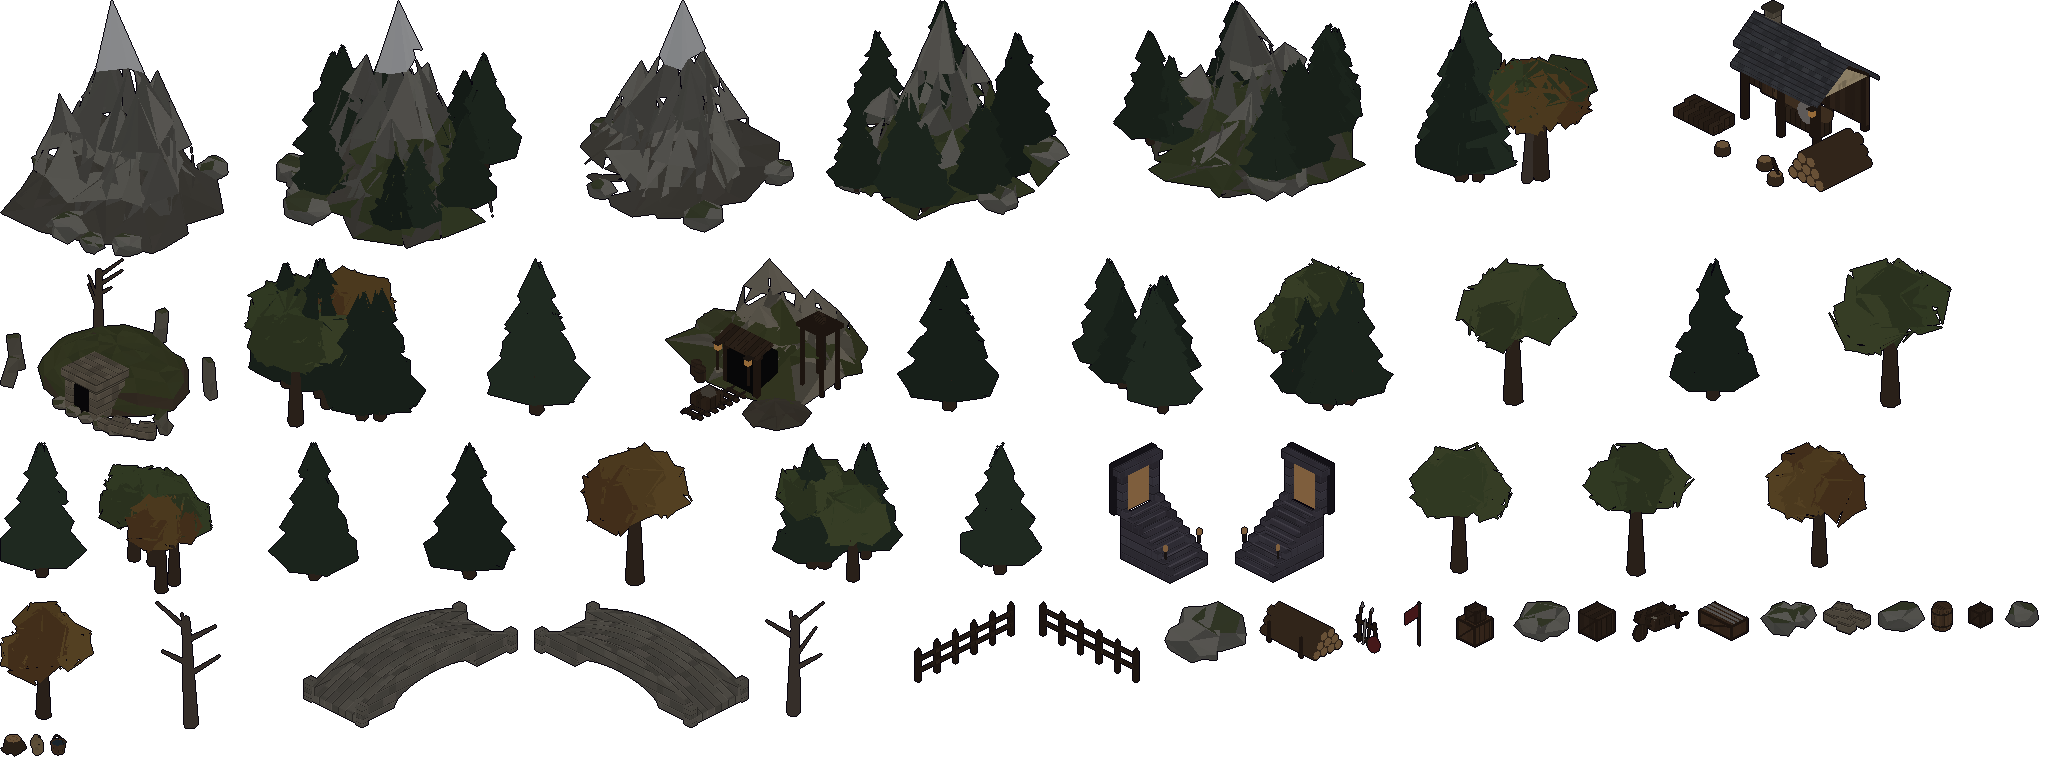
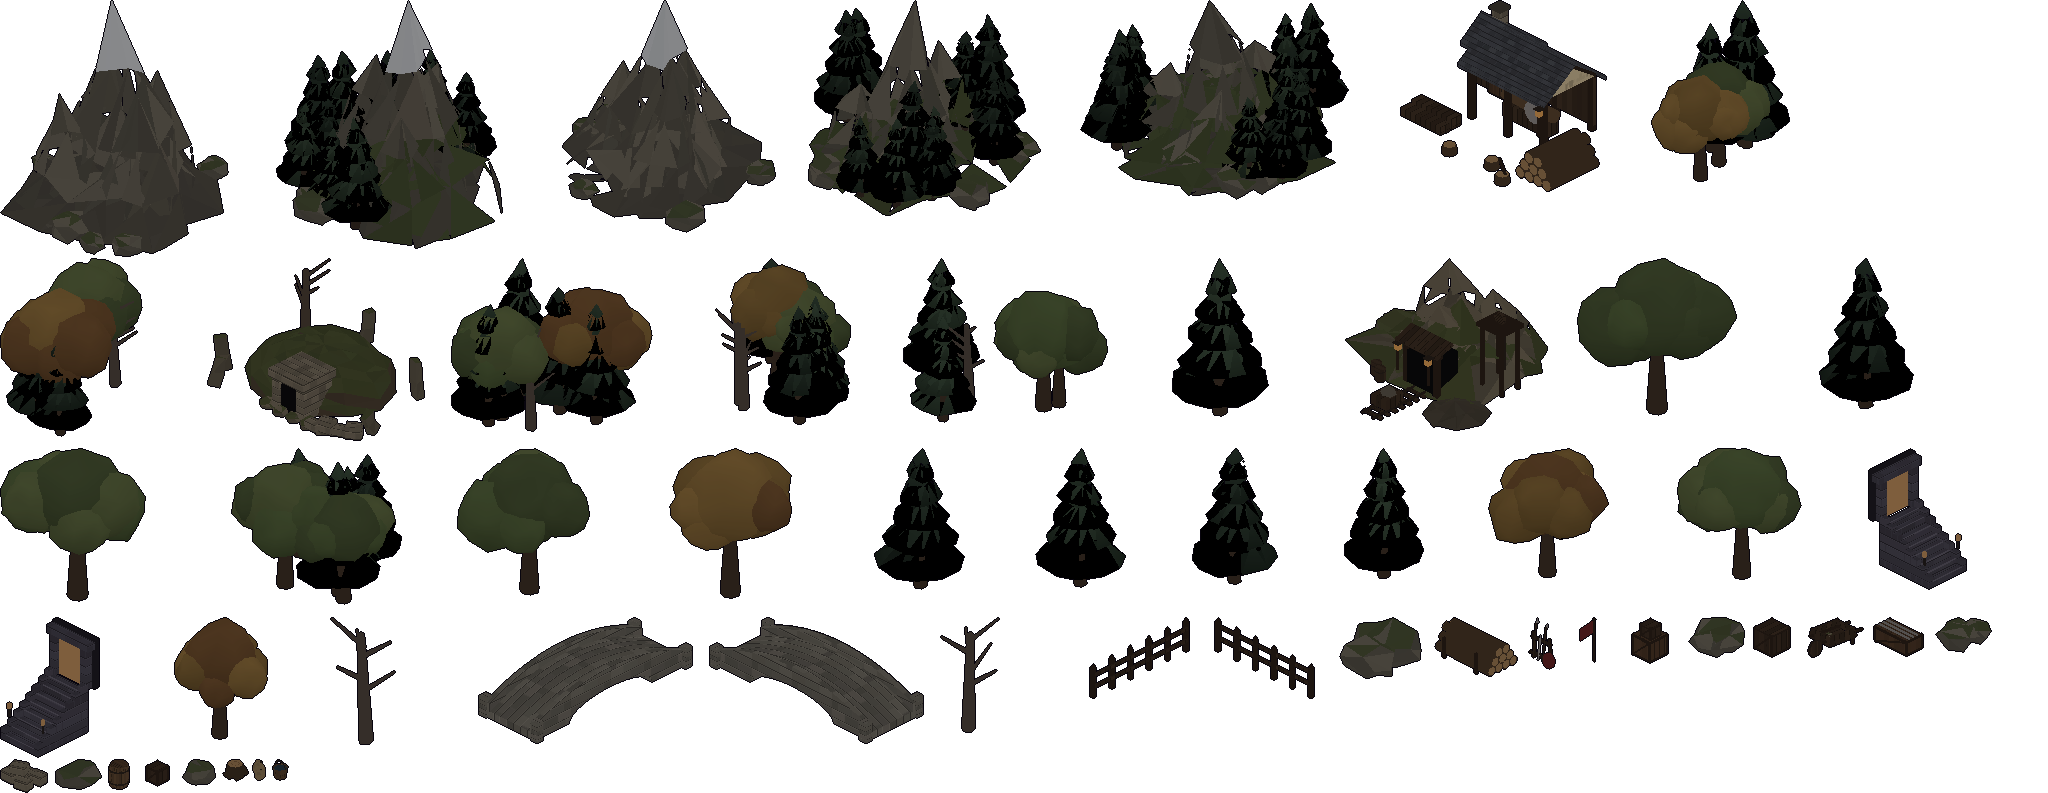
Trees and rocks match the buildings; landmark sightlines account for tree height
- buildkit foliage: crowns are vertex-welded before jitter (the old per-face
  jitter cracked them into shards), smooth-shaded and vertex-coloured from a
  self-shadowed underside to a lit top. Broadleaf trees get a broad cloud of
  rounded clumps and visible limbs instead of a few faceted gems; pines are
  five overlapping drooping boughs.
- Rocks: warm dark field-stone with more moss (pale neutral grey read lilac
  under the violet dusk).
- Overland sightline wedge scales with what's placed: groves 80, trees 62,
  rocks 30 (a grove's crowns reach ~30 tiles up-screen and covered the
  Barrows door again after the footprint change).
- Env and town atlases + footprints rebaked.

Claude-Session: https://claude.ai/code/session_015iJE9saRx1hCYJHRMUYeGn

diff --git a/src/sim/envfoot.js b/src/sim/envfoot.js
@@ -1,4 +1,4 @@
 // envfoot.js — GENERATED by tools/actor-lab/bake-env.cjs. Do not edit.
 // Ground footprint of each baked environment sprite, in tiles relative to its
 // origin: [x0, y0, x1, y1]. Used for collision and placement.
-export const ENV_FOOT = {"pine_1":[-5.46,-5.7,5.31,5.16],"pine_2":[-4.5,-4.8,4.99,4.87],"pine_3":[-5.04,-4.72,4.94,5.15],"pine_4":[-4.7,-4.76,5.18,5.04],"pine_5":[-4.33,-4.33,4.72,4.69],"pine_6":[-5.3,-5.62,5.8,5.55],"oak_1":[-6.11,-7.36,6.14,6.76],"oak_2":[-5.3,-5.13,4.9,6.33],"oak_3":[-4.78,-5.35,3.81,5.83],"oak_4":[-6.79,-6.27,5.48,6.7],"autumn_1":[-5.55,-5.54,5.19,6.4],"autumn_2":[-5.46,-4.76,5.52,5.58],"autumn_3":[-3.81,-5.57,4.15,6.11],"dead_1":[-2.24,-2.81,2.66,2.62],"dead_2":[-2.56,-1.87,2.98,3.05],"grove_1":[-9.33,-9.47,3.42,3.61],"grove_2":[-10.08,-9.35,8.36,9.26],"grove_3":[-8.88,-10.4,9.35,7.65],"grove_4":[-10.19,-7.19,8.42,8.9],"grove_5":[-7.76,-4.44,6.78,8.94],"grove_6":[-9.02,-9.65,7.4,2.07],"bridge_0":[-3.6,-9.7,3.6,9.7],"bridge_90":[-9.7,-3.6,9.7,3.6],"rock_A":[-2.18,-2.03,2.19,2.41],"rock_B":[-2.03,-2.12,2.06,1.97],"rock_C":[-3.06,-3.35,3.32,3.55],"rock_D":[-2.7,-3.56,2.22,2.22],"rock_E":[-3.72,-3.84,4.19,6.22],"mountain_A_grass_trees":[-11.35,-11.48,11.34,11.97],"mountain_B_grass_trees":[-11.71,-13.02,12.8,11.38],"mountain_C_grass_trees":[-14.56,-13.66,14.26,14.25],"mountain_A":[-11.3,-11.74,11.05,10.38],"mountain_B":[-12.23,-11.71,11.72,13.45],"ruin":[-9.37,-9.66,9.14,6.89],"mine_0":[-11.55,-10.95,8.49,11.1],"lumbermill_90":[-10.3,-7.1,9.4,8.9],"barrel":[-0.89,-0.94,0.89,0.94],"crate_A_big":[-1.12,-1.12,1.12,1.19],"crate_A_small":[-0.72,-0.72,0.72,0.79],"crate_B_big":[-1.12,-1.12,1.12,1.19],"crate_long_A":[-2.02,-1.02,2.02,1.09],"sack":[-0.62,-0.49,1.25,1.36],"wheelbarrow":[-1.32,-2.69,1.32,3.23],"weaponrack":[-1.2,-0.19,2.1,0.81],"bucket_water":[-0.65,-0.65,0.65,0.65],"resource_lumber":[-3.33,-1.78,3.33,2.15],"resource_stone":[-1.7,-1.97,1.75,0.83],"flag_red":[-0.16,-0.12,0.16,1.84],"stump":[-1.06,-1.15,1.12,1.1],"fence_0":[-0.25,-6.05,0.3,6.05],"fence_90":[-6.05,-0.3,6.05,0.25],"stairsup_0":[-2.6,-4.15,2.6,3.1],"stairsup_90":[-4.15,-2.6,3.1,2.6],"vale_tavern_1":[-6.3,-8.45,6.72,7.25],"vale_inn_1":[-7.1,-4.4,10.48,5.1],"vale_shop_1":[-4.2,-7.15,5.07,4.2],"vale_temple_1":[-6.95,-4.5,7.84,6.7],"vale_well_1":[-2.1,-1.8,2.1,1.8],"vale_house_1":[-4.7,-4,4.7,4],"vale_house_2":[-4.7,-4,4.7,4],"vale_house_3":[-4.7,-4,4.7,4],"vale_housex_1":[-4,-4.7,4,4.7],"vale_housex_2":[-4,-4.7,4,4.7],"vale_farm_1":[-9.63,-5.7,9.77,7.63],"vale_farmx_1":[-5.7,-9.77,7.63,9.63],"vale_keep_1":[-6.37,-6.45,6.37,6.45],"vale_wall_1":[-11,-1.7,11,2.1],"vale_wally_1":[-1.7,-11,2.1,11],"fens_tavern_1":[-6.3,-8.45,6.72,7.25],"fens_inn_1":[-7.1,-4.4,10.48,5.1],"fens_shop_1":[-4.2,-7.15,5.07,4.2],"fens_temple_1":[-6.95,-4.5,7.84,6.7],"fens_well_1":[-2.1,-1.8,2.1,1.8],"fens_house_1":[-4.7,-4,4.7,4],"fens_house_2":[-4.7,-4,4.7,4],"fens_house_3":[-4.7,-4,4.7,4],"fens_housex_1":[-4,-4.7,4,4.7],"fens_housex_2":[-4,-4.7,4,4.7],"fens_farm_1":[-9.63,-5.7,9.77,7.63],"fens_farmx_1":[-5.7,-9.77,7.63,9.63],"fens_keep_1":[-6.37,-6.45,6.37,6.45],"fens_wall_1":[-11,-1.7,11,2.1],"fens_wally_1":[-1.7,-11,2.1,11],"reach_tavern_1":[-6.3,-8.45,6.72,7.25],"reach_inn_1":[-7.1,-4.4,10.48,5.1],"reach_shop_1":[-4.2,-7.15,5.07,4.2],"reach_temple_1":[-6.95,-4.5,7.84,6.7],"reach_well_1":[-2.1,-1.8,2.1,1.8],"reach_house_1":[-4.7,-4,4.7,4],"reach_house_2":[-4.7,-4,4.7,4],"reach_house_3":[-4.7,-4,4.7,4],"reach_housex_1":[-4,-4.7,4,4.7],"reach_housex_2":[-4,-4.7,4,4.7],"reach_farm_1":[-9.63,-5.7,9.77,7.63],"reach_farmx_1":[-5.7,-9.77,7.63,9.63],"reach_keep_1":[-6.37,-6.45,6.37,6.45],"reach_wall_1":[-11,-1.7,11,2.1],"reach_wally_1":[-1.7,-11,2.1,11],"heights_tavern_1":[-6.3,-8.45,6.72,7.25],"heights_inn_1":[-7.1,-4.4,10.48,5.1],"heights_shop_1":[-4.2,-7.15,5.07,4.2],"heights_temple_1":[-6.95,-4.5,7.84,6.7],"heights_well_1":[-2.1,-1.8,2.1,1.8],"heights_house_1":[-4.7,-4,4.7,4],"heights_house_2":[-4.7,-4,4.7,4],"heights_house_3":[-4.7,-4,4.7,4],"heights_housex_1":[-4,-4.7,4,4.7],"heights_housex_2":[-4,-4.7,4,4.7],"heights_farm_1":[-9.63,-5.7,9.77,7.63],"heights_farmx_1":[-5.7,-9.77,7.63,9.63],"heights_keep_1":[-6.37,-6.45,6.37,6.45],"heights_wall_1":[-11,-1.7,11,2.1],"heights_wally_1":[-1.7,-11,2.1,11]};
+export const ENV_FOOT = {"pine_1":[-4.13,-4.18,4.39,4.34],"pine_2":[-4.81,-4.8,5.12,5],"pine_3":[-4.98,-5.01,5,4.96],"pine_4":[-5.13,-5.38,5.48,5.19],"pine_5":[-4.8,-4.87,4.86,4.58],"pine_6":[-4.76,-4.68,4.81,4.84],"oak_1":[-6.76,-5.9,5.88,5.84],"oak_2":[-5.8,-4.63,4.64,4.88],"oak_3":[-5.69,-5.27,5.8,5.97],"oak_4":[-6.23,-6.82,5.95,6.39],"autumn_1":[-6.59,-6.17,5.5,4.97],"autumn_2":[-4.61,-5.31,5.15,5.55],"autumn_3":[-4.46,-4.55,4.68,4.38],"dead_1":[-2.24,-2.81,2.66,2.62],"dead_2":[-2.56,-1.87,2.98,3.05],"grove_1":[-7.68,-11.37,3.67,5.35],"grove_2":[-9.37,-7.23,8.7,9.95],"grove_3":[-8,-5.74,9.25,8.11],"grove_4":[-8.72,-9.33,7.98,8.18],"grove_5":[-7.14,-9.42,6.44,8.99],"grove_6":[-8.02,-9.64,7.46,6.95],"bridge_0":[-3.6,-9.7,3.6,9.7],"bridge_90":[-9.7,-3.6,9.7,3.6],"rock_A":[-2.18,-2.03,2.19,2.41],"rock_B":[-2.03,-2.12,2.06,1.97],"rock_C":[-3.06,-3.35,3.32,3.55],"rock_D":[-2.7,-3.56,2.22,2.22],"rock_E":[-3.72,-3.84,4.19,6.22],"mountain_A_grass_trees":[-12.58,-12.79,11.34,10.47],"mountain_B_grass_trees":[-12.7,-13.02,12.8,11.86],"mountain_C_grass_trees":[-14.56,-13.66,14.26,14.25],"mountain_A":[-11.3,-11.74,11.05,10.38],"mountain_B":[-12.23,-11.71,11.72,13.45],"ruin":[-9.37,-9.66,9.14,6.89],"mine_0":[-11.55,-10.95,8.49,11.1],"lumbermill_90":[-10.3,-7.1,9.4,8.9],"barrel":[-0.89,-0.94,0.89,0.94],"crate_A_big":[-1.12,-1.12,1.12,1.19],"crate_A_small":[-0.72,-0.72,0.72,0.79],"crate_B_big":[-1.12,-1.12,1.12,1.19],"crate_long_A":[-2.02,-1.02,2.02,1.09],"sack":[-0.62,-0.49,1.25,1.36],"wheelbarrow":[-1.32,-2.69,1.32,3.23],"weaponrack":[-1.2,-0.19,2.1,0.81],"bucket_water":[-0.65,-0.65,0.65,0.65],"resource_lumber":[-3.33,-1.78,3.33,2.15],"resource_stone":[-1.7,-1.97,1.75,0.83],"flag_red":[-0.16,-0.12,0.16,1.84],"stump":[-1.06,-1.15,1.12,1.1],"fence_0":[-0.25,-6.05,0.3,6.05],"fence_90":[-6.05,-0.3,6.05,0.25],"stairsup_0":[-2.6,-4.15,2.6,3.1],"stairsup_90":[-4.15,-2.6,3.1,2.6],"vale_tavern_1":[-6.3,-8.45,6.72,7.25],"vale_inn_1":[-7.1,-4.4,10.48,5.1],"vale_shop_1":[-4.2,-7.15,5.07,4.2],"vale_temple_1":[-6.95,-4.5,7.84,6.7],"vale_well_1":[-2.1,-1.8,2.1,1.8],"vale_house_1":[-4.7,-4,4.7,4],"vale_house_2":[-4.7,-4,4.7,4],"vale_house_3":[-4.7,-4,4.7,4],"vale_housex_1":[-4,-4.7,4,4.7],"vale_housex_2":[-4,-4.7,4,4.7],"vale_farm_1":[-9.63,-5.7,9.77,7.63],"vale_farmx_1":[-5.7,-9.77,7.63,9.63],"vale_keep_1":[-6.37,-6.45,6.37,6.45],"vale_wall_1":[-11,-1.7,11,2.1],"vale_wally_1":[-1.7,-11,2.1,11],"fens_tavern_1":[-6.3,-8.45,6.72,7.25],"fens_inn_1":[-7.1,-4.4,10.48,5.1],"fens_shop_1":[-4.2,-7.15,5.07,4.2],"fens_temple_1":[-6.95,-4.5,7.84,6.7],"fens_well_1":[-2.1,-1.8,2.1,1.8],"fens_house_1":[-4.7,-4,4.7,4],"fens_house_2":[-4.7,-4,4.7,4],"fens_house_3":[-4.7,-4,4.7,4],"fens_housex_1":[-4,-4.7,4,4.7],"fens_housex_2":[-4,-4.7,4,4.7],"fens_farm_1":[-9.63,-5.7,9.77,7.63],"fens_farmx_1":[-5.7,-9.77,7.63,9.63],"fens_keep_1":[-6.37,-6.45,6.37,6.45],"fens_wall_1":[-11,-1.7,11,2.1],"fens_wally_1":[-1.7,-11,2.1,11],"reach_tavern_1":[-6.3,-8.45,6.72,7.25],"reach_inn_1":[-7.1,-4.4,10.48,5.1],"reach_shop_1":[-4.2,-7.15,5.07,4.2],"reach_temple_1":[-6.95,-4.5,7.84,6.7],"reach_well_1":[-2.1,-1.8,2.1,1.8],"reach_house_1":[-4.7,-4,4.7,4],"reach_house_2":[-4.7,-4,4.7,4],"reach_house_3":[-4.7,-4,4.7,4],"reach_housex_1":[-4,-4.7,4,4.7],"reach_housex_2":[-4,-4.7,4,4.7],"reach_farm_1":[-9.63,-5.7,9.77,7.63],"reach_farmx_1":[-5.7,-9.77,7.63,9.63],"reach_keep_1":[-6.37,-6.45,6.37,6.45],"reach_wall_1":[-11,-1.7,11,2.1],"reach_wally_1":[-1.7,-11,2.1,11],"heights_tavern_1":[-6.3,-8.45,6.72,7.25],"heights_inn_1":[-7.1,-4.4,10.48,5.1],"heights_shop_1":[-4.2,-7.15,5.07,4.2],"heights_temple_1":[-6.95,-4.5,7.84,6.7],"heights_well_1":[-2.1,-1.8,2.1,1.8],"heights_house_1":[-4.7,-4,4.7,4],"heights_house_2":[-4.7,-4,4.7,4],"heights_house_3":[-4.7,-4,4.7,4],"heights_housex_1":[-4,-4.7,4,4.7],"heights_housex_2":[-4,-4.7,4,4.7],"heights_farm_1":[-9.63,-5.7,9.77,7.63],"heights_farmx_1":[-5.7,-9.77,7.63,9.63],"heights_keep_1":[-6.37,-6.45,6.37,6.45],"heights_wall_1":[-11,-1.7,11,2.1],"heights_wally_1":[-1.7,-11,2.1,11]};

diff --git a/tools/actor-lab/buildkit.js b/tools/actor-lab/buildkit.js
@@ -9,6 +9,7 @@
 // is ~0.5 and a storey ~0.55 (grounded, not chibi). Meshes flagged userData.glow are
 // window glass (baked emissive).
 import * as THREE from 'three';
+import { mergeVertices } from 'three/addons/utils/BufferGeometryUtils.js';
 
 // ── deterministic rng for texture + detail variation ────────────────────────
 function rng(seed) { let a = seed >>> 0; return () => { a |= 0; a = (a + 0x6d2b79f5) | 0; let t = Math.imul(a ^ (a >>> 15), 1 | a); t = (t + Math.imul(t ^ (t >>> 7), 61 | t)) ^ t; return ((t ^ (t >>> 14)) >>> 0) / 4294967296; }; }
@@ -402,23 +403,43 @@ const TYPES = {
 const flat = (color) => new THREE.MeshStandardMaterial({ color: new THREE.Color(color), flatShading: true });
 const jitter = (geo, r, amt) => { const p = geo.attributes.position; for (let i = 0; i < p.count; i++) p.setXYZ(i, p.getX(i) + (r() - 0.5) * amt, p.getY(i) + (r() - 0.5) * amt * 0.6, p.getZ(i) + (r() - 0.5) * amt); geo.computeVertexNormals(); return geo; };
 const TREE_COL = { pine: ['#1f2b22', '#243226', '#2a392b'], leaf: ['#3a4527', '#42502c', '#4b5530'], autumn: ['#6a4f25', '#76582a', '#5e3f21'], bark: '#3a2c22', dead: '#4a4038' };
+// Foliage (critic pass 2: faceted gem-like crowns clashed with the buildings): closed,
+// softly-shaded masses. Geometry is vertex-merged BEFORE jittering so faces never crack
+// apart, shaded smooth, and vertex-coloured from a dark self-shadowed underside to a lighter
+// crown top, with a little per-vertex variation — foliage mass, not cut stone.
+const foliageMat = new THREE.MeshStandardMaterial({ vertexColors: true, flatShading: false, roughness: 1 });
+function foliage(geo, r, amt, base, top = 1.35, bottom = 0.55) {
+  const g0 = geo.clone(); g0.deleteAttribute('normal'); g0.deleteAttribute('uv');       // weld on position alone (seams too)
+  const m = mergeVertices(g0), p = m.attributes.position;
+  let y0 = 1e9, y1 = -1e9; for (let i = 0; i < p.count; i++) { y0 = Math.min(y0, p.getY(i)); y1 = Math.max(y1, p.getY(i)); }
+  const col = new Float32Array(p.count * 3), c = new THREE.Color(base);
+  for (let i = 0; i < p.count; i++) {
+    p.setXYZ(i, p.getX(i) + (r() - 0.5) * amt, p.getY(i) + (r() - 0.5) * amt * 0.6, p.getZ(i) + (r() - 0.5) * amt);
+    const t = (p.getY(i) - y0) / Math.max(1e-6, y1 - y0), k = (bottom + (top - bottom) * Math.pow(t, 0.8)) * (0.92 + r() * 0.16);
+    col[i * 3] = c.r * k; col[i * 3 + 1] = c.g * k; col[i * 3 + 2] = c.b * k;
+  }
+  m.setAttribute('color', new THREE.BufferAttribute(col, 3)); m.computeVertexNormals();
+  return m;
+}
 function pine(g, r, x, z, sc = 1) {
   const t = new THREE.Group(); t.position.set(x, 0, z); t.scale.setScalar(sc); g.add(t);
-  const trunk = new THREE.Mesh(new THREE.CylinderGeometry(0.03, 0.045, 0.3, 5), flat(TREE_COL.bark)); trunk.position.y = 0.15; t.add(trunk);
-  const tiers = 4, col = TREE_COL.pine[(r() * 3) | 0];
-  for (let i = 0; i < tiers; i++) {
-    const rad = 0.3 * (1 - i / (tiers + 0.6)), h = 0.38 * (1 - i * 0.12);
-    const c = new THREE.Mesh(jitter(new THREE.ConeGeometry(rad, h, 7, 1), r, 0.05), flat(col)); c.position.y = 0.2 + i * 0.2 + h / 2; c.rotation.y = r() * 3; t.add(c);
+  const trunk = new THREE.Mesh(new THREE.CylinderGeometry(0.028, 0.045, 0.34, 6), flat(TREE_COL.bark)); trunk.position.y = 0.17; t.add(trunk);
+  const tiers = 5, col = TREE_COL.pine[(r() * 3) | 0];
+  for (let i = 0; i < tiers; i++) {                        // drooping boughs, each a little narrower, overlapping
+    const rad = 0.29 * (1 - i / (tiers + 0.8)), h = 0.3 * (1 - i * 0.08);
+    const c = new THREE.Mesh(foliage(new THREE.ConeGeometry(rad, h, 11, 2), r, 0.035, col, 1.55, 0.62), foliageMat);
+    c.position.y = 0.2 + i * 0.16 + h / 2; c.rotation.y = r() * 3; t.add(c);
   }
 }
 function broadleaf(g, r, x, z, sc = 1, autumn = false) {
   const t = new THREE.Group(); t.position.set(x, 0, z); t.scale.setScalar(sc); g.add(t);
-  const trunk = new THREE.Mesh(new THREE.CylinderGeometry(0.035, 0.06, 0.45, 6), flat(TREE_COL.bark)); trunk.position.y = 0.22; t.add(trunk);
-  const pal = autumn ? TREE_COL.autumn : TREE_COL.leaf, n = 4 + ((r() * 3) | 0);
-  for (let i = 0; i < n; i++) {
-    const a = (i / n) * Math.PI * 2 + r(), rr = i === 0 ? 0 : 0.14 + r() * 0.06, size = i === 0 ? 0.26 : 0.17 + r() * 0.07;
-    const b = new THREE.Mesh(jitter(new THREE.IcosahedronGeometry(size, 0), r, 0.06), flat(pal[(r() * 3) | 0]));
-    b.position.set(Math.cos(a) * rr, 0.62 + (i === 0 ? 0.08 : r() * 0.12 - 0.02), Math.sin(a) * rr); b.rotation.set(r() * 3, r() * 3, 0); t.add(b);
+  const trunk = new THREE.Mesh(new THREE.CylinderGeometry(0.034, 0.064, 0.44, 7), flat(TREE_COL.bark)); trunk.position.y = 0.22; t.add(trunk);
+  for (const a of [0.6, 2.7, 4.6]) { const b = new THREE.Mesh(new THREE.CylinderGeometry(0.012, 0.024, 0.2, 5), flat(TREE_COL.bark)); b.position.set(Math.cos(a) * 0.05, 0.44, Math.sin(a) * 0.05); b.rotation.set(Math.sin(a) * 0.7, 0, -Math.cos(a) * 0.7); t.add(b); }
+  const pal = autumn ? TREE_COL.autumn : TREE_COL.leaf, n = 7 + ((r() * 4) | 0);
+  for (let i = 0; i < n; i++) {                            // a cloud of rounded clumps: big core, smaller lobes around and on top
+    const a = (i / n) * Math.PI * 2 + r(), rr = i === 0 ? 0 : 0.17 + r() * 0.1, size = i === 0 ? 0.3 : 0.15 + r() * 0.09;   // a broad crown, not a lollipop
+    const b = new THREE.Mesh(foliage(new THREE.IcosahedronGeometry(size, 1), r, size * 0.22, pal[(r() * 3) | 0]), foliageMat);
+    b.position.set(Math.cos(a) * rr, 0.6 + (i === 0 ? 0.1 : r() * 0.18 - 0.06), Math.sin(a) * rr); t.add(b);
   }
 }
 function deadTree(g, r, x, z, sc = 1) {
@@ -464,12 +485,13 @@ function faceted(geo, r, jit, colorFn) {
   return g;
 }
 const vmat = () => new THREE.MeshStandardMaterial({ vertexColors: true, flatShading: true });
-const ROCK = { base: C3('#66655f'), dark: C3('#484741'), light: C3('#84827a'), moss: C3('#4a5236'), grass: C3('#46502f'), snow: C3('#d4d6da'), scree: C3('#58544c') };
+// rocks: warm dark field-stone (pale neutral grey read lilac under the violet dusk), more moss on top
+const ROCK = { base: C3('#5b564b'), dark: C3('#433f37'), light: C3('#6f685a'), moss: C3('#4a5233'), grass: C3('#46502f'), snow: C3('#d4d6da'), scree: C3('#524d44') };
 const tint = (c, k) => c.clone().multiplyScalar(k);
 
 function rockMesh(r, size, flatten = 0.6) {
   const geo = faceted(new THREE.DodecahedronGeometry(size, 0), r, size * 0.35, (ny, y, q) =>
-    ny > 0.72 && q < 0.7 ? tint(ROCK.moss, 0.9 + q * 0.2) : ny > 0.3 ? tint(ROCK.light, 0.9 + q * 0.15) : tint(ROCK.base, 0.85 + q * 0.2));
+    ny > 0.6 && q < 0.8 ? tint(ROCK.moss, 0.9 + q * 0.2) : ny > 0.3 ? tint(ROCK.light, 0.9 + q * 0.15) : tint(ROCK.base, 0.85 + q * 0.2));
   const m = new THREE.Mesh(geo, vmat()); m.scale.y = flatten; m.position.y = size * flatten * 0.55; return m;
 }
 function mountainMesh(r, { h = 2.0, w = 0.9, peaks = 3, snow = true, grass = false }) {

diff --git a/src/sim/outdoor.js b/src/sim/outdoor.js
@@ -301,10 +301,13 @@ function buildOverland(seed) {
     const f = fbm(x * 0.022, y * 0.022, o.seed + 7);
     if (Math.hypot(x - town[0] + 16, y - town[1]) < 40 || Math.hypot(x - cross[0], y - cross[1]) < 18) return null;
     for (const c of [keep, barrows, mine, camp, [60, 112]]) if (Math.hypot(x - c[0], y - c[1]) < 24) return null;
-    if (inFrontOf([keep, barrows, mine, camp, cross, [town[0] + 4, town[1]]], x, y, 46, 32)) return null;   // sightlines to every landmark (groves are wide and tall)
-    if (f > 0.58) return rng() < 0.8 ? pick(rng, TREE_CLUSTER) : pick(rng, TREE_SINGLE);
-    if (f > 0.45 && rng() < 0.3) return pick(rng, TREE_SINGLE);
-    return rng() < 0.05 ? pick(rng, ROCKS) : null;
+    // sightlines to every landmark: the clear wedge runs deeper for taller things (a grove's
+    // crowns reach ~30 tiles up-screen, a lone tree ~15), so nothing in front rises over the site
+    const sights = [keep, barrows, mine, camp, cross, [town[0] + 4, town[1]]];
+    const id = f > 0.58 ? (rng() < 0.8 ? pick(rng, TREE_CLUSTER) : pick(rng, TREE_SINGLE)) : f > 0.45 && rng() < 0.3 ? pick(rng, TREE_SINGLE) : rng() < 0.05 ? pick(rng, ROCKS) : null;
+    if (!id) return null;
+    const reach = /grove/.test(id) ? 80 : /rock/.test(id) ? 30 : 62;
+    return inFrontOf(sights, x, y, reach, 32) ? null : id;
   });
   forestRing(o, rng, 6);
 
